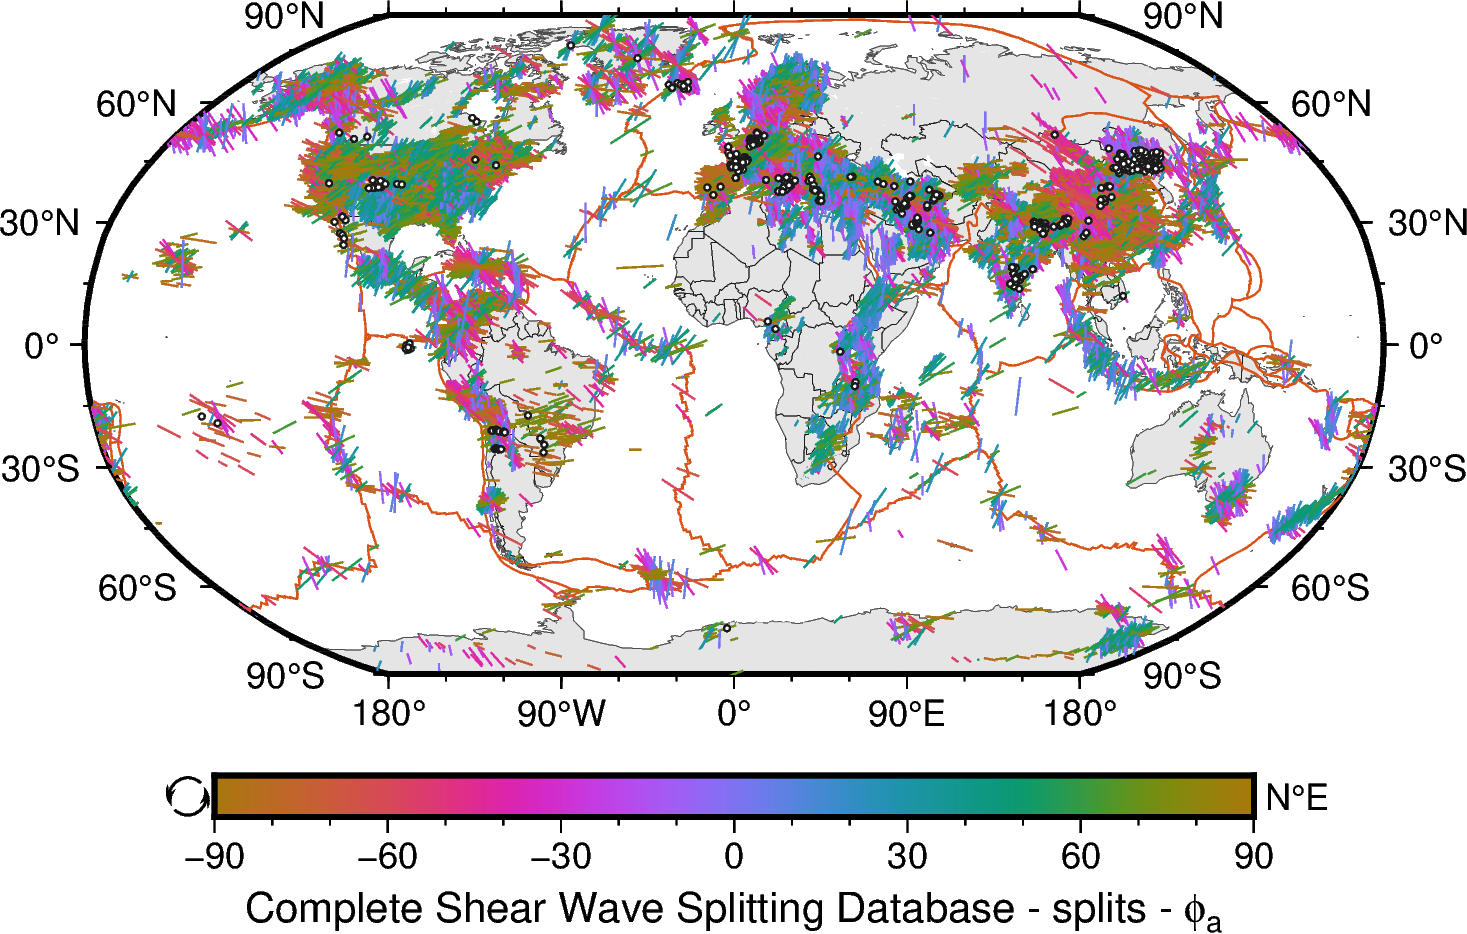
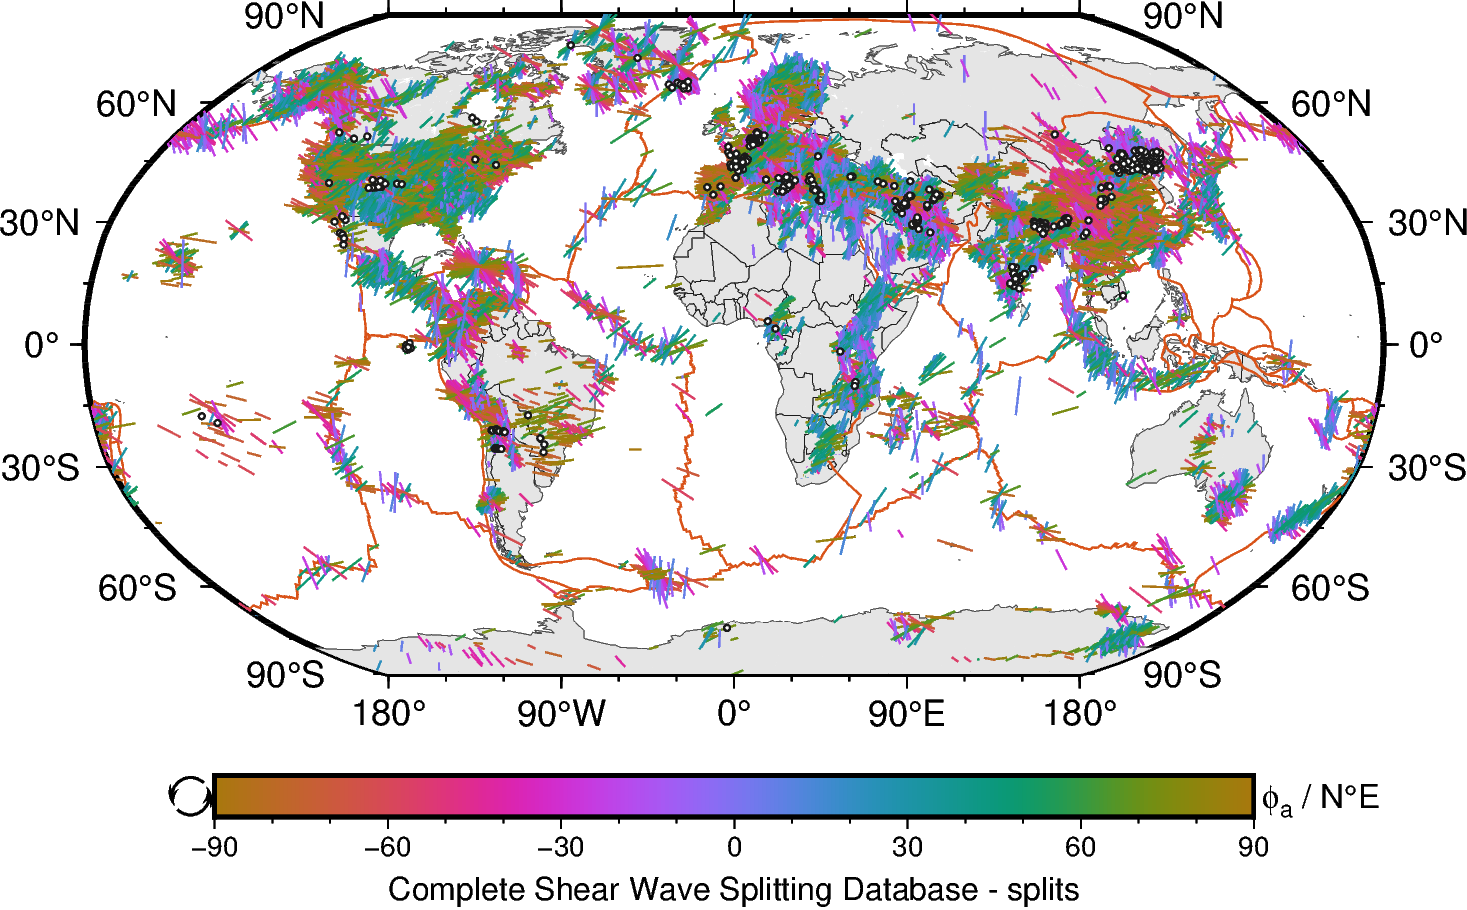
006_tomographies_databases: Update 01_db_sws (#51)

diff --git a/006_tomographies_databases/01_db_sws/map_db_sws_spatial_distribution.py b/006_tomographies_databases/01_db_sws/map_db_sws_spatial_distribution.py
@@ -21,8 +21,9 @@
 # GitHub: https://github.com/yvonnefroehlich/gmt-pygmt-plotting
 # -----------------------------------------------------------------------------
 # - Created: 2024/05/10
-#   PyGMT v0.12.0 -> https://www.pygmt.org/
-#   GMT 6.4.0 / 6.5.0 -> https://www.generic-mapping-tools.org/
+# - Updated: 2025/02/15
+#   PyGMT v0.11.0 - v0.14.2 -> https://www.pygmt.org/
+#   GMT 6.4.0 - 6.5.0 -> https://www.generic-mapping-tools.org/
 # #############################################################################
 
 
@@ -38,14 +39,14 @@ path_in = "01_in_data"
 path_out = "02_out_figs"
 
 # Colors
-color_platebound = "216.750/82.875/24.990"
+color_pb = "216.750/82.875/24.990"  # plate boundaries
 color_land = "gray90"
-color_shorelines = "darkred"
+color_sl = "darkred"  # shorelines
 color_split = "white"
 
 # Region and projection
-region_used = "d"  # global with central longitude at 0° E, use "g" for 180° E
-projection_used = "N11c"  # Robinson projection
+region = "d"  # global with central longitude at 0° E, use "g" for 180° E
+projection = "N11c"  # Robinson projection
 
 
 # %%
@@ -63,21 +64,17 @@ df_swsm_null = df_swsm_raw[df_swsm_raw.obs == "Null"]
 # Bin data
 # -----------------------------------------------------------------------------
 # Feel free to adjust the blocks size for your needs
-for spacing_used in range(5, 21, 5):  # size of blocks in degrees
+for spacing in range(5, 21, 5):  # size of blocks in degrees
     # Calculate counts of splits within each block
     df_swsm_split_bin = gmt.blockmean(
         data=df_swsm_split[["Longitude", "Latitude", "phi_SL"]],
-        region=region_used,
-        spacing=spacing_used,
+        region=region,
+        spacing=spacing,
         summary="n",  # Counts within each block
     )
 
     # Convert to GMT-ready grid
-    grd_swsm_split_bin = gmt.xyz2grd(
-        data=df_swsm_split_bin,
-        region=region_used,
-        spacing=spacing_used,
-    )
+    grd_swsm_split_bin = gmt.xyz2grd(data=df_swsm_split_bin, region=region, spacing=spacing)
 
 
 # %%
@@ -87,12 +84,8 @@ for spacing_used in range(5, 21, 5):  # size of blocks in degrees
     fig = gmt.Figure()
     gmt.config(FONT_LABEL="10p", MAP_GRID_PEN_PRIMARY="0.01p,gray50")
 
-    fig.coast(
-        region=region_used,
-        projection=projection_used,
-        land=color_land,
-        frame=["WSnE", "xa90f30", "ya30f15"],
-    )
+    fig.basemap(region=region, projection=projection, frame=["WSnE", "xa90f30", "ya30f15"])
+    fig.coast(land=color_land)
 
 # -----------------------------------------------------------------------------
     # Counts of splits within in each block
@@ -100,45 +93,31 @@ for spacing_used in range(5, 21, 5):  # size of blocks in degrees
     gmt.makecpt(series=[0, 300, 10], cmap="nuuk", reverse=True)
 
     # Plot grid
-    fig.grdimage(
-        grid=grd_swsm_split_bin,
-        region=region_used,
-        cmap=True,
-        nan_transparent=True,
-    )
+    fig.grdimage(grid=grd_swsm_split_bin, region=region, cmap=True, nan_transparent=True)
 
     # Add colorbar
-    fig.colorbar(
-        frame=f"x+lCount of splits within each block ({spacing_used}@. x {spacing_used}@.)",
-        position="+ef0.3c",
-    )
+    cb_xlabel = f"Count of splits within each block ({spacing}@. x {spacing}@.)"
+    fig.colorbar(frame=f"x+l{cb_xlabel}", position="+ef0.3c")
 
 # -----------------------------------------------------------------------------
     # Plot data points for splits
-    fig.plot(
-        data=df_swsm_split[["Longitude", "Latitude"]],
-        style="p0.1p",
-        fill=color_split,
-    )
+    fig.plot(data=df_swsm_split[["Longitude", "Latitude"]], style="p0.1p", fill=color_split)
 
 # -----------------------------------------------------------------------------
-    # Add Shorelines
-    fig.coast(shorelines=f"1/0.15p,{color_shorelines}")
+    # Add shorelines
+    fig.coast(shorelines=f"1/0.15p,{color_sl}")
 
     # Plot plate boundaries
-    fig.plot(
-        data=f"{path_in}/plate_boundaries_Bird_2003.txt",
-        pen=f"0.3p,{color_platebound}",
-    )
+    fig.plot(data=f"{path_in}/plate_boundaries_Bird_2003.txt", pen=f"0.3p,{color_pb}")
 
-    # Add frame
+    # Plot frame on top
     fig.basemap(frame=0)
 
 # -----------------------------------------------------------------------------
     # Show and save figure
     fig.show()
 
-    fig_name = f"{path_out}/db_sws_spatial_distribution_splits_spacing{spacing_used}deg"
+    fig_name = f"{path_out}/db_sws_spatial_distribution_splits_spacing{spacing}deg"
     # for ext in ["png"]:  # , "pdf", "eps"]:
     #     fig.savefig(fname=f"{fig_name}.{ext}")
 

diff --git a/006_tomographies_databases/01_db_sws/map_db_sws_splitting_parameters.py b/006_tomographies_databases/01_db_sws/map_db_sws_splitting_parameters.py
@@ -22,8 +22,9 @@
 # GitHub: https://github.com/yvonnefroehlich/gmt-pygmt-plotting
 # -----------------------------------------------------------------------------
 # - Created: 2024/04/29
-#   PyGMT v0.11.0 / v0.12.0 -> https://www.pygmt.org/
-#   GMT 6.4.0 / 6.5.0 -> https://www.generic-mapping-tools.org/
+# - Updated: 2025/02/15
+#   PyGMT v0.11.0 - v0.14.2 -> https://www.pygmt.org/
+#   GMT 6.4.0 - 6.5.0 -> https://www.generic-mapping-tools.org/
 # #############################################################################
 
 
@@ -39,9 +40,9 @@ path_in = "01_in_data"
 path_out = "02_out_figs"
 
 # Colors
-color_platebound = "216.750/82.875/24.990"
+color_pb = "216.750/82.875/24.990"  # plate boundaries
 color_land = "gray90"
-color_shorelines = "gray30"
+color_sl = "gray30"  # shorelines
 color_borders = "gray10"
 fill_null_max = "white"
 pen_null = "0.4p,gray10"
@@ -69,51 +70,35 @@ df_null_max_order = df_swsm_null[["Longitude", "Latitude"]]
 fig = gmt.Figure()
 gmt.config(FONT_LABEL="10p", MAP_GRID_PEN_PRIMARY="0.01p,gray50")
 
-# Make colormap for fast polarization direction
-gmt.makecpt(cmap=f"{path_in}/phase.cpt", series=[-90, 90], cyclic=True)
-
-# -----------------------------------------------------------------------------
 # Set up basic map
+fig.basemap(region="d", projection="N11c", frame=["WSnE", "xa90f30", "ya30f15"])
+
+# Plot land masses, shorelines and political borders
 fig.coast(
-    region="d",
-    projection="N11c",
-    frame=["WSnE", "xa90f30", "ya30f15"],
-    land=color_land,
-    shorelines=f"1/0.05p,{color_shorelines}",
-    borders=f"1/0.001p,{color_borders}",
+    land=color_land, shorelines=f"1/0.05p,{color_sl}", borders=f"1/0.01p,{color_borders}"
 )
 
 # -----------------------------------------------------------------------------
-# Plate boundaries
-fig.plot(
-    data=f"{path_in}/plate_boundaries_Bird_2003.txt",
-    pen=f"0.4p,{color_platebound}",
-)
+# Plot plate boundaries
+fig.plot(data=f"{path_in}/plate_boundaries_Bird_2003.txt", pen=f"0.4p,{color_pb}")
 
 # -----------------------------------------------------------------------------
 # Plot splitting parameter of splits as orientated and color-coded length-scaled
 # bars according to phi and dt; nulls as white-filled black-outlined circles
 
-# splits
-fig.plot(
-    data=df_bar_max_order,
-    incols="0,1,2,3,4+s0.05,5+s0.006",
-    style="j",
-    cmap=True,
-)
+# Make colormap for phi
+gmt.makecpt(cmap=f"{path_in}/phase.cpt", series=[-90, 90], cyclic=True)
 
-# nulls
-fig.plot(
-    data=df_null_max_order,
-    style="c0.05c",
-    fill=fill_null_max,
-    pen=pen_null,
-)
+# Plot splits
+fig.plot(data=df_bar_max_order, incols="0,1,2,3,4+s0.05,5+s0.006", style="j", cmap=True)
 
-# -----------------------------------------------------------------------------
+# Plot nulls
+fig.plot(data=df_null_max_order, style="c0.05c", fill=fill_null_max, pen=pen_null)
+
 # Add colorbar for phi colormap
-cb_label = "Complete Shear Wave Splitting Database - splits - @~f@~@-a@-"
-fig.colorbar(cmap=True, frame=[f"xa30f10+l{cb_label}", "y+lN@.E"])
+cb_xlabel = "Complete Shear Wave Splitting Database - splits"
+cb_ylabel = "@~f@~@-a@- / N@.E"
+fig.colorbar(cmap=True, frame=[f"xa30f10+l{cb_xlabel}", f"y+l{cb_ylabel}"])
 
 # -----------------------------------------------------------------------------
 # Show and save figure
